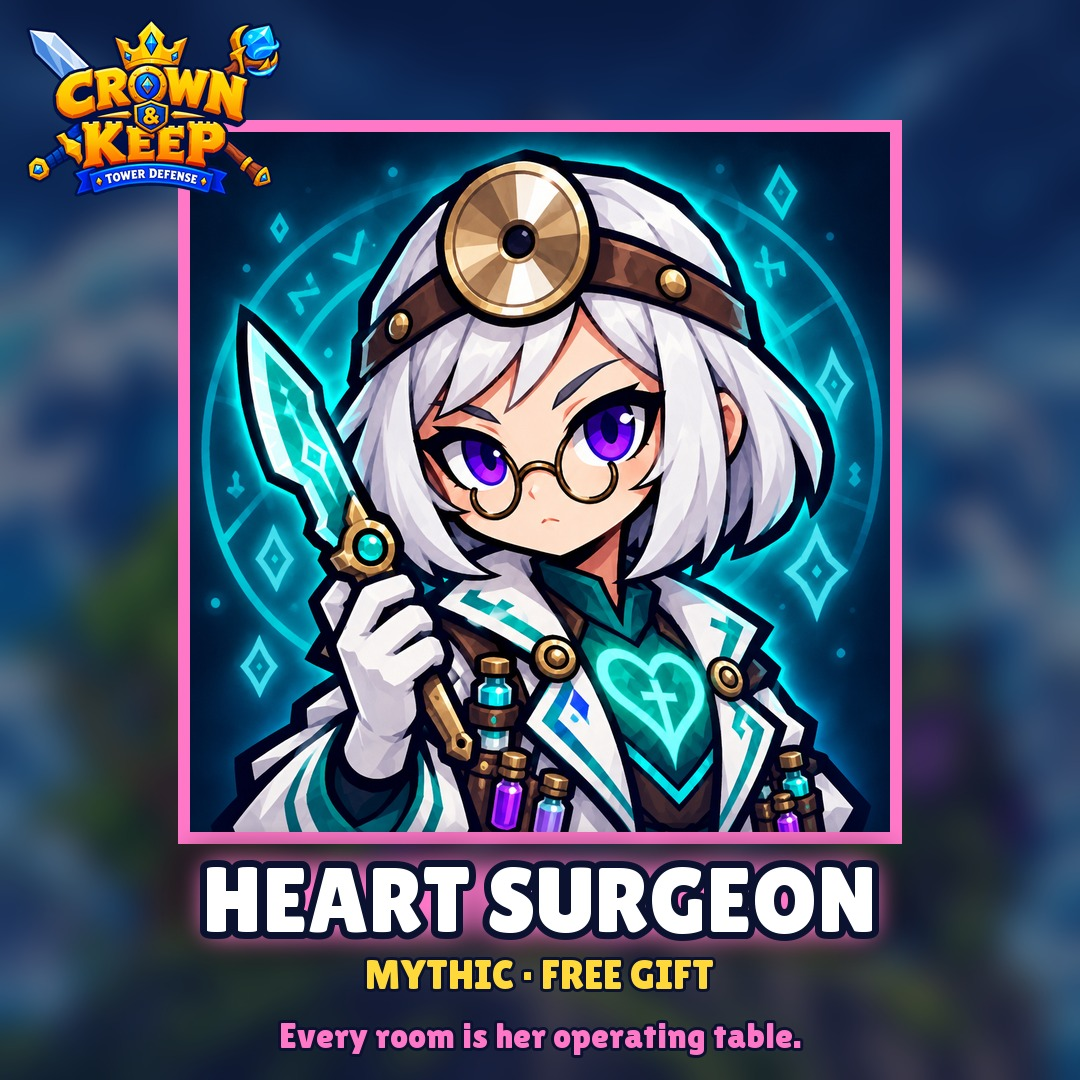
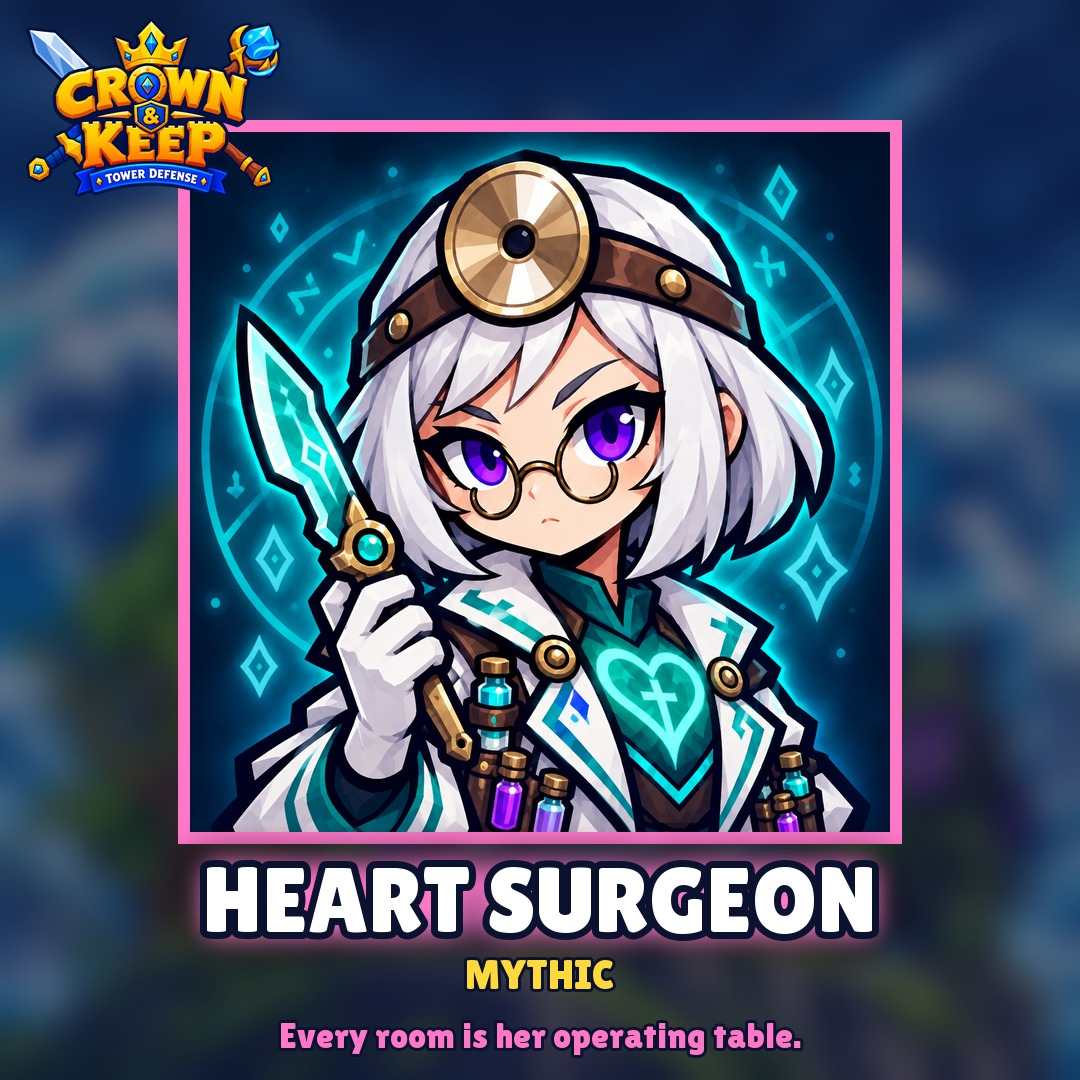
Hotfix game 2.9.6 / API 1.6.3: Heart Surgeon and Dark Spawn are no longer gifts (drop from chests)

Changed region(s): [[0.3361, 0.8861, 0.6722, 0.9167]]

diff --git a/website/release-notes.html b/website/release-notes.html
@@ -72,8 +72,8 @@
           <p class="release__tag">Five new units. Something stirs below the tide.</p>
           <h4>Five new units</h4>
           <ul class="release__list">
-            <li><b>Heart Surgeon</b> (Mythic, a free gift for every player). Keeps a Room on the path: monsters inside take her hit every second, more for every death in it. Awakened, she becomes the Surgeon of Death: every other Heart Surgeon merges into her, she opens four Rooms, and her Scalpel cuts bosses that enter them.</li>
-            <li><b>Dark Spawn</b> (Mythic, a free gift for every player). Every attack has a 0.4% chance to awaken him on the spot (Dark Rebirth) into one of three forms: Dark Zero, Dark Javelin or True Despair. His live numbers show over his head.</li>
+            <li><b>Heart Surgeon</b> (Mythic). Keeps a Room on the path: monsters inside take her hit every second, more for every death in it. Awakened, she becomes the Surgeon of Death: every other Heart Surgeon merges into her, she opens four Rooms, and her Scalpel cuts bosses that enter them.</li>
+            <li><b>Dark Spawn</b> (Mythic). Every attack has a 0.4% chance to awaken him on the spot (Dark Rebirth) into one of three forms: Dark Zero, Dark Javelin or True Despair. His live numbers show over his head.</li>
             <li><b>Windrunner</b> (Legendary, Sylvan archer). Nature's Gaze: 85% per hit to root a monster for 5 seconds (bosses 1 second). When a rooted monster dies, the roots jump to every monster around it.</li>
             <li><b>Cursed Totem</b> (Legendary, Undead). Never attacks. Units beside it may execute any monster but a boss: 1.4% at rank 1, up to 3.0% at rank 5.</li>
             <li><b>Sea Serpent</b> (Legendary). Race ???. Element ???. Ability ???. Find it in Legendary chests.</li>

diff --git a/shared/units.ts b/shared/units.ts
@@ -523,8 +523,11 @@ export function withAdded<T extends { id: string }>(list: T[], defaults: T[], ad
 }
 
 /** Whether a unit can drop from a chest for this player: story units never, story rewards once owned. */
-/** v2.10: units every player is given (at this card level, see giveGiftUnits) that never drop from chests. */
-export const GIFT_UNITS: Readonly<Record<string, number>> = { heart_surgeon: 1, murcielago: 1 };
+/**
+ * v2.10: units every player is given (at this card level, see giveGiftUnits) that never drop from chests.
+ * Empty since 2.9.6: Heart Surgeon and Dark Spawn drop from chests like any Mythic.
+ */
+export const GIFT_UNITS: Readonly<Record<string, number>> = {};
 /** v2.9.5: teaser units. They fight and drop like any other, but their card hides race, element, ability and stats (???). */
 export const TEASER_UNITS: ReadonlySet<string> = new Set(["sea_serpent"]);
 export const canDrop = (u: UnitDef, owns: (id: string) => boolean) => u.enabled && !u.storyOnly && u.rarity !== "event" && !(u.id in GIFT_UNITS) && (!u.storyReward || owns(u.id));

diff --git a/website/index.html b/website/index.html
@@ -278,7 +278,7 @@
           <div>
             <time>Oct 21, 2026 &middot; v2.9.5</time>
             <h3>Rising Tide</h3>
-            <p>Five new units. <b>Heart Surgeon</b> and <b>Dark Spawn</b> are free Mythics for every player. <b>Windrunner</b> roots monsters, and the roots jump when one falls. <b>Cursed Totem</b> never attacks, but its neighbours execute. And from the deep, the <b>Sea Serpent</b>: race ???, element ???, ability ???. Echo Spirit now becomes a copy of its neighbour.</p>
+            <p>Five new units. <b>Heart Surgeon</b> and <b>Dark Spawn</b> join the Mythics. <b>Windrunner</b> roots monsters, and the roots jump when one falls. <b>Cursed Totem</b> never attacks, but its neighbours execute. And from the deep, the <b>Sea Serpent</b>: race ???, element ???, ability ???. Echo Spirit now becomes a copy of its neighbour.</p>
             <p><a class="btn btn--ghost btn--sm" href="release-notes.html#v2-9-5">Read the notes</a></p>
           </div>
         </article>

diff --git a/game/src/scenes/whatsNew.ts b/game/src/scenes/whatsNew.ts
@@ -35,7 +35,7 @@ function show(scene: Phaser.Scene) {
   m.add(logo);
   scene.tweens.add({ targets: logo, y: logo.y + 10, yoyo: true, repeat: -1, duration: 1800, ease: "Sine.InOut" });
   logo.once(Phaser.GameObjects.Events.DESTROY, () => scene.tweens.killTweensOf(logo));
-  m.add(txt(scene, m.cx, m.cy + 130, "Two gift Mythics for everyone: Heart Surgeon and Dark Spawn.", 26, "#ffffff").setWordWrapWidth(600));
+  m.add(txt(scene, m.cx, m.cy + 130, "Two new Mythics in the chests: Heart Surgeon and Dark Spawn.", 26, "#ffffff").setWordWrapWidth(600));
   m.add(txt(scene, m.cx, m.cy + 190, "Windrunner roots monsters, and the roots jump when they fall.", 26, "#8fdc5a").setWordWrapWidth(600));
   m.add(txt(scene, m.cx, m.cy + 250, "Cursed Totem never attacks. Its neighbours execute.", 26, "#c9a0ff").setWordWrapWidth(600));
   m.add(txt(scene, m.cx, m.cy + 310, "And from the deep... the Sea Serpent. Its secrets: ???", 26, "#7fd8ff").setWordWrapWidth(600));

diff --git a/docs/features/v2.9.5-rising-tide/promo/compose.py b/docs/features/v2.9.5-rising-tide/promo/compose.py
@@ -79,8 +79,8 @@ keyart("coming_soon_1x1.jpg", "soon_1x1.png", 1080, 1080, 0.36, "RISING TIDE", "
 
 # Unit spotlights: the card portrait, name, rarity and one line.
 UNITS = [
-    ("heart_surgeon", "HEART SURGEON", "MYTHIC · FREE GIFT", "Every room is her operating table.", (255, 120, 200)),
-    ("murcielago", "DARK SPAWN", "MYTHIC · FREE GIFT", "May awaken mid-fight into one of three forms.", (140, 255, 120)),
+    ("heart_surgeon", "HEART SURGEON", "MYTHIC", "Every room is her operating table.", (255, 120, 200)),
+    ("murcielago", "DARK SPAWN", "MYTHIC", "May awaken mid-fight into one of three forms.", (140, 255, 120)),
     ("windrunner", "WINDRUNNER", "LEGENDARY", "Roots them. When they fall, the roots jump.", (143, 220, 90)),
     ("cursed_totem", "CURSED TOTEM", "LEGENDARY", "Never attacks. Its neighbours execute.", (201, 160, 255)),
     ("sea_serpent", "SEA SERPENT", "LEGENDARY · ???", "Race ???  ·  Element ???  ·  Ability ???", CYAN),

diff --git a/game/CHANGELOG.md b/game/CHANGELOG.md
@@ -2,6 +2,9 @@
 
 Releases up to 2.3.0 are documented per release in `docs/features/` (see `docs/features/ROADMAP.md`); tags `v1.1.0` to `v2.2.0` stay as game history. From here, tags are `game-vX.Y.Z`.
 
+## 2.9.6
+- Hotfix: Heart Surgeon and Dark Spawn are no longer gifts. They drop from chests like any Mythic (`GIFT_UNITS` is empty). What's new says "Two new Mythics in the chests". Needs API 1.6.3.
+
 ## 2.9.5 "Rising Tide"
 - Two new Mythics, given to every player at card level 1 (they never drop from chests). **Heart Surgeon** keeps a Room on the path that hurts monsters inside more with every death in it; awakened (Surgeon of Death) every other Heart Surgeon merges into her and her 4 Rooms cut bosses with Scalpel. **Dark Spawn** may awaken himself (Dark Rebirth, 0.4% per attack) and rolls one of three forms: Dark Zero, Dark Javelin or True Despair. Details in `docs/features/v2.9.4-new-mythics/`.
 - Three new Legendaries that drop from chests (none awakens). **Windrunner** (Sylvan, Nature, rapid archer): Nature's Gaze, 85% per hit to root the target for 5s (bosses 1s); a monster that dies rooted passes the root to every monster within 150px for 2s. **Cursed Totem** (Undead, Arcane): never attacks; adjacent units' hits may execute a non-boss monster, 1.4% at rank 1 +0.4% per rank (3.0% at rank 5), +0.05% per card level. **Sea Serpent** is the teaser: a plain attacker (DMG 97, one attack every 0.8s) whose card shows ??? for race, element, ability and stats.

diff --git a/docs/features/v2.9.5-rising-tide/PROMO.md b/docs/features/v2.9.5-rising-tide/PROMO.md
@@ -64,9 +64,9 @@ Reach: `#TowerDefense #IndieGame #IndieDev #MobileGames #BrowserGames #FantasyGa
 >
 > Five new units join the defense:
 >
-> 🩺 **Heart Surgeon** (Mythic, FREE for everyone): keeps a Room on the path that cuts harder with every death inside it.
+> 🩺 **Heart Surgeon** (Mythic): keeps a Room on the path that cuts harder with every death inside it.
 > Awakened, she becomes the Surgeon of Death.
-> 😈 **Dark Spawn** (Mythic, FREE for everyone): may awaken himself mid-fight into one of three forms: Dark Zero,
+> 😈 **Dark Spawn** (Mythic): may awaken himself mid-fight into one of three forms: Dark Zero,
 > Dark Javelin or True Despair.
 > 🏹 **Windrunner** (Legendary): her arrows root monsters in place, and when a rooted monster falls, the roots jump to
 > everything around it.
@@ -80,7 +80,7 @@ Reach: `#TowerDefense #IndieGame #IndieDev #MobileGames #BrowserGames #FantasyGa
 
 ## X / short launch post
 
-> 🌊 v2.9.5 RISING TIDE is live. Two free Mythics, two new Legendaries, and a Sea Serpent no one can explain. Play free:
+> 🌊 v2.9.5 RISING TIDE is live. Two new Mythics, two new Legendaries, and a Sea Serpent no one can explain. Play free:
 > crownnkeep.com #CrownAndKeep #RisingTide #TowerDefense
 
 ## Reel hook text

diff --git a/website/CHANGELOG.md b/website/CHANGELOG.md
@@ -1,5 +1,8 @@
 # Website changelog
 
+## 1.7.1
+- Heart Surgeon and Dark Spawn are no longer called free gifts (release notes, home news).
+
 ## 1.7.0
 - Game 2.9.5 "Rising Tide": release notes get v2.9.5 as the latest (five new units, Echo Spirit rework, offline practice, smoother phones), and v2.4 moves into the History panel. The home page news features Rising Tide (key art from `marketing/v2.9.5/`), the hero pill says it is live, and the oldest post (v2.3) is dropped.
 - Unit data re-exported: Heart Surgeon, Dark Spawn, Windrunner and Cursed Totem join the codex and wiki. Teaser units (`TEASER_UNITS`, the Sea Serpent) are left out of the export until their reveal. Echo Spirit's stat cell reads 100% (an exact copy).

diff --git a/server/CHANGELOG.md b/server/CHANGELOG.md
@@ -1,5 +1,8 @@
 # API changelog
 
+## 1.6.3
+- Game 2.9.6 hotfix: no more gift units. Profile load no longer gives Heart Surgeon and Dark Spawn, and both drop from chests (`GIFT_UNITS` empty). No migration; `MIN_CLIENT` stays 2.9.5.
+
 ## 1.6.2
 - Game 2.9.5 "Rising Tide" (staged as 2.9.4): shared Sim with the Echo Spirit rework, Heart Surgeon and Dark Spawn, and the Legendaries Windrunner, Cursed Totem and Sea Serpent (added to saved configs through `ADDED_UNITS`). `giveGiftUnits()` on profile load gives every player both Mythics at card level 1 (it never lowers a level). Config hotfix `2.9.4-units` (Dark Spawn name, Echo Spirit and Heart Surgeon blurbs). No migration. `MIN_CLIENT` 2.9.5 (prod and staging).
 

diff --git a/docs/features/v2.9.5-rising-tide/README.md b/docs/features/v2.9.5-rising-tide/README.md
@@ -7,7 +7,8 @@ replay PvP and lab boards differently.
 
 ## 1. Two new Mythics (gift units)
 
-Every player owns both, given at **card level 1**. Neither drops from chests (`GIFT_UNITS` in `shared/units.ts`).
+**Not gifts (since 2.9.6):** both drop from chests like any Mythic. In 2.9.5 every player was given both at card
+level 1 and they never dropped (`GIFT_UNITS` in `shared/units.ts`, now empty).
 `giveGiftUnits()` adds them on profile load for players who joined before them. It only raises a level, never lowers one.
 Accounts on staging that got them at level 3 (the first gift level) keep level 3.
 
